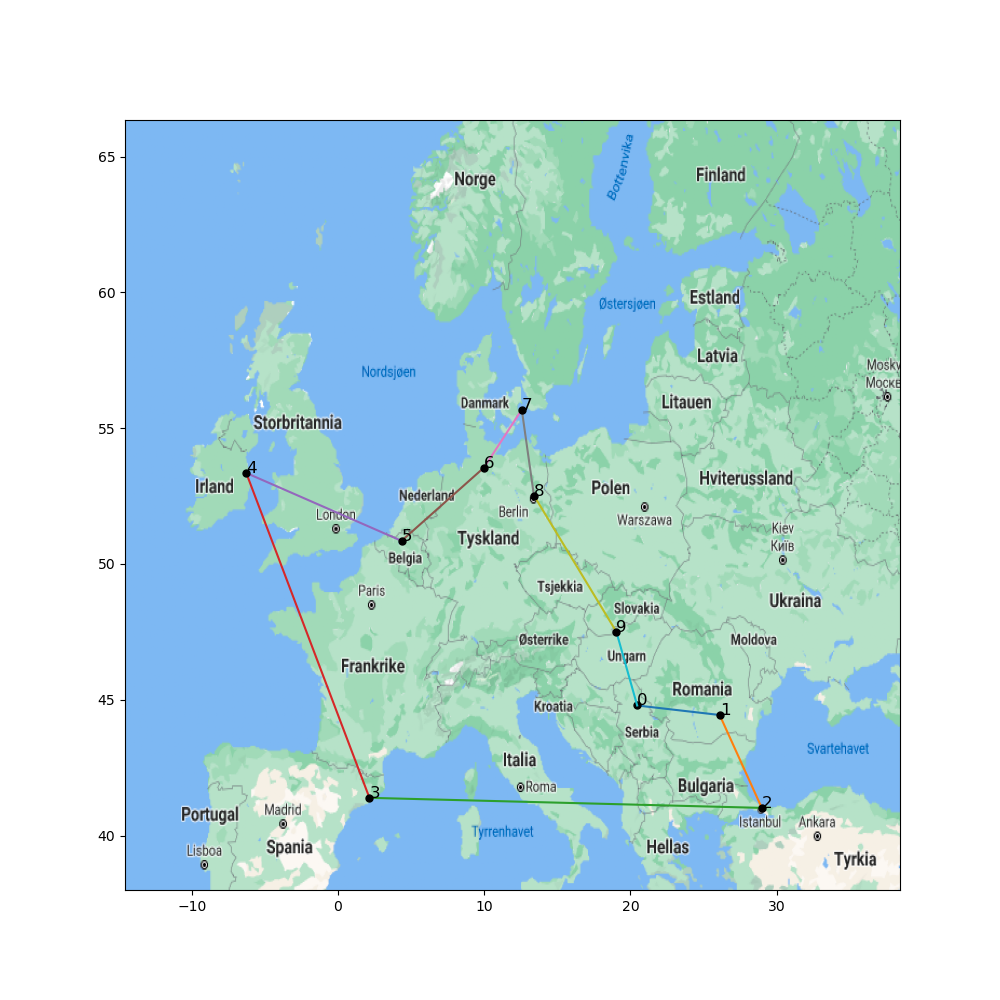
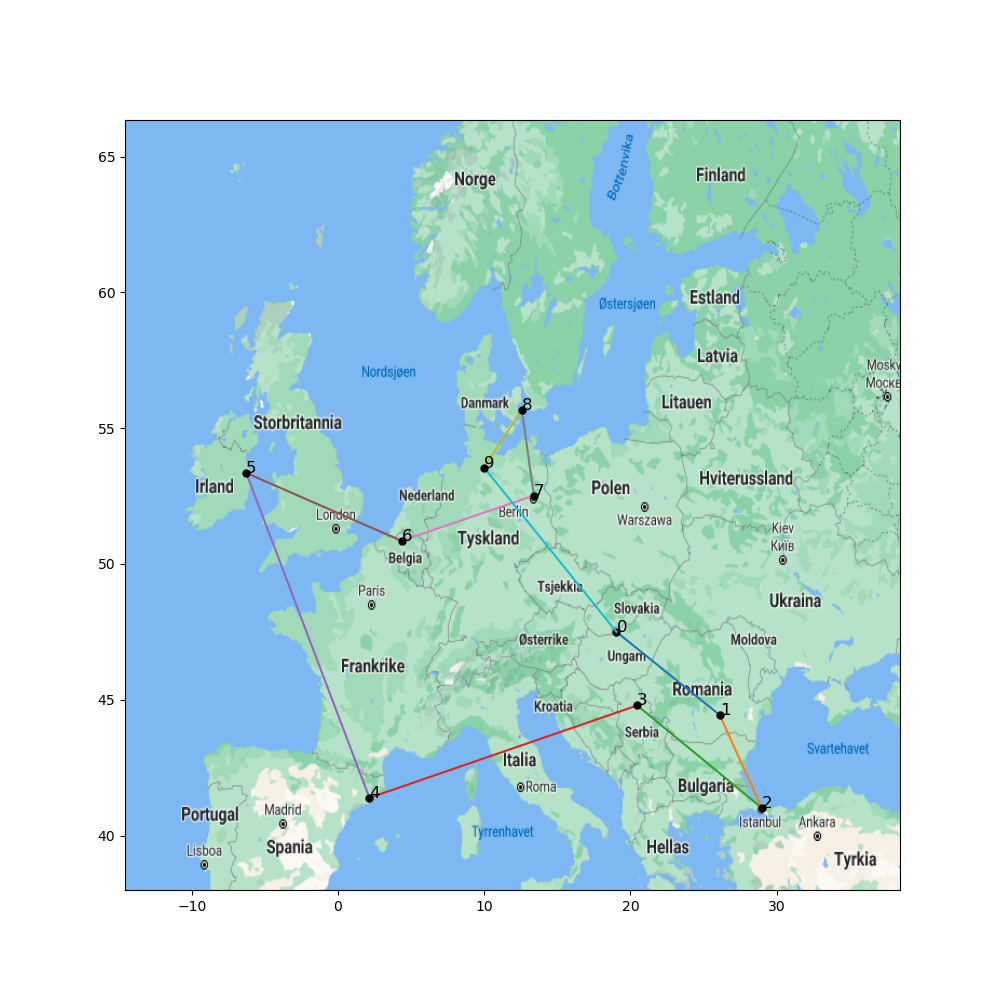
Use kwargs and more tupling

diff --git a/IN3050/oblig1/genetic_algorithm.py b/IN3050/oblig1/genetic_algorithm.py
@@ -5,10 +5,12 @@ from common import fitness
 
 def genetic_algorithm(
     city_coordinates: dict[str, list[float]],
-    population_size: int,
-    num_elites: int,
-    num_generations: int,
+    **kwargs: int,
 ) -> tuple[str, ...]:
+    population_size = kwargs["population_size"] or 100
+    num_elites = kwargs["num_elites"] or 2
+    num_generations = kwargs["num_generations"] or 5000
+        
     # generate population_size random solutions
     cities = list(city_coordinates.keys())
     solutions = [tuple(random.sample(cities, len(cities))) for _ in range(population_size)]
@@ -21,11 +23,9 @@ def genetic_algorithm(
     i = 0
     while i < num_generations:
         population = get_next_generation(population, elites)
-        # print(elites)
         i += 1
 
-    # first list() casts from type dict_keys, second list() casts from type tuple
-    return tuple(list(elites.keys())[0])
+    return tuple(elites.keys())[0]
 
 
 def get_next_generation(
@@ -44,9 +44,8 @@ def get_next_generation(
             continue
 
         mutated_fitness = fitness(mutated)
-        worst_elite = max(elites, key=elites.get)
+        worst_elite = max(elites, key=lambda k: elites.get(k, float("inf")))
         if mutated_fitness < elites[worst_elite]:
-            print(mutated_fitness, worst_elite, elites[worst_elite])
             elites.pop(worst_elite)
             elites[mutated] = mutated_fitness
 

diff --git a/IN3050/oblig1/main.py b/IN3050/oblig1/main.py
@@ -23,9 +23,9 @@ def run_and_plot(
     city_coordinates: dict[str, list[float]]
 ) -> None:
     print("---------------------------------------")
-    print(f"Running {algorithm.__name__} on {list(city_coordinates.keys())}")
+    print(f"Running {algorithm.__name__} on {tuple(city_coordinates.keys())}\n")
     solution = algorithm(city_coordinates)
-    print(f"Found this solution: {solution}, with a total distance of {fitness(solution)}")
+    print(f"Found this solution: {solution}, with a total distance of {fitness(solution)}km\n")
 
     filename = f"assets/{algorithm.__name__}_{len(solution)}_cities.png"
     print(f"Plotting solution and saving it as '{filename}'")
@@ -83,15 +83,16 @@ def test_hill_climbing() -> None:
 
 
 def test_genetic_algorithm() -> None:
-    algo = partial(genetic_algorithm, population_size=10, num_elites=2, num_generations=100)
+    algo = partial(genetic_algorithm, population_size=10, num_elites=2, num_generations=10000)
     algo.__name__ = genetic_algorithm.__name__
 
-    run_and_plot(algo, SIX_CITIES)
+    run_and_plot(algo, TEN_CITIES)
+    run_and_plot(algo, ALL_CITIES)
 
 
 def main() -> None:
-    # test_exhaustive_search()
-    # test_hill_climbing()
+    test_exhaustive_search()
+    test_hill_climbing()
     test_genetic_algorithm()
 
 
